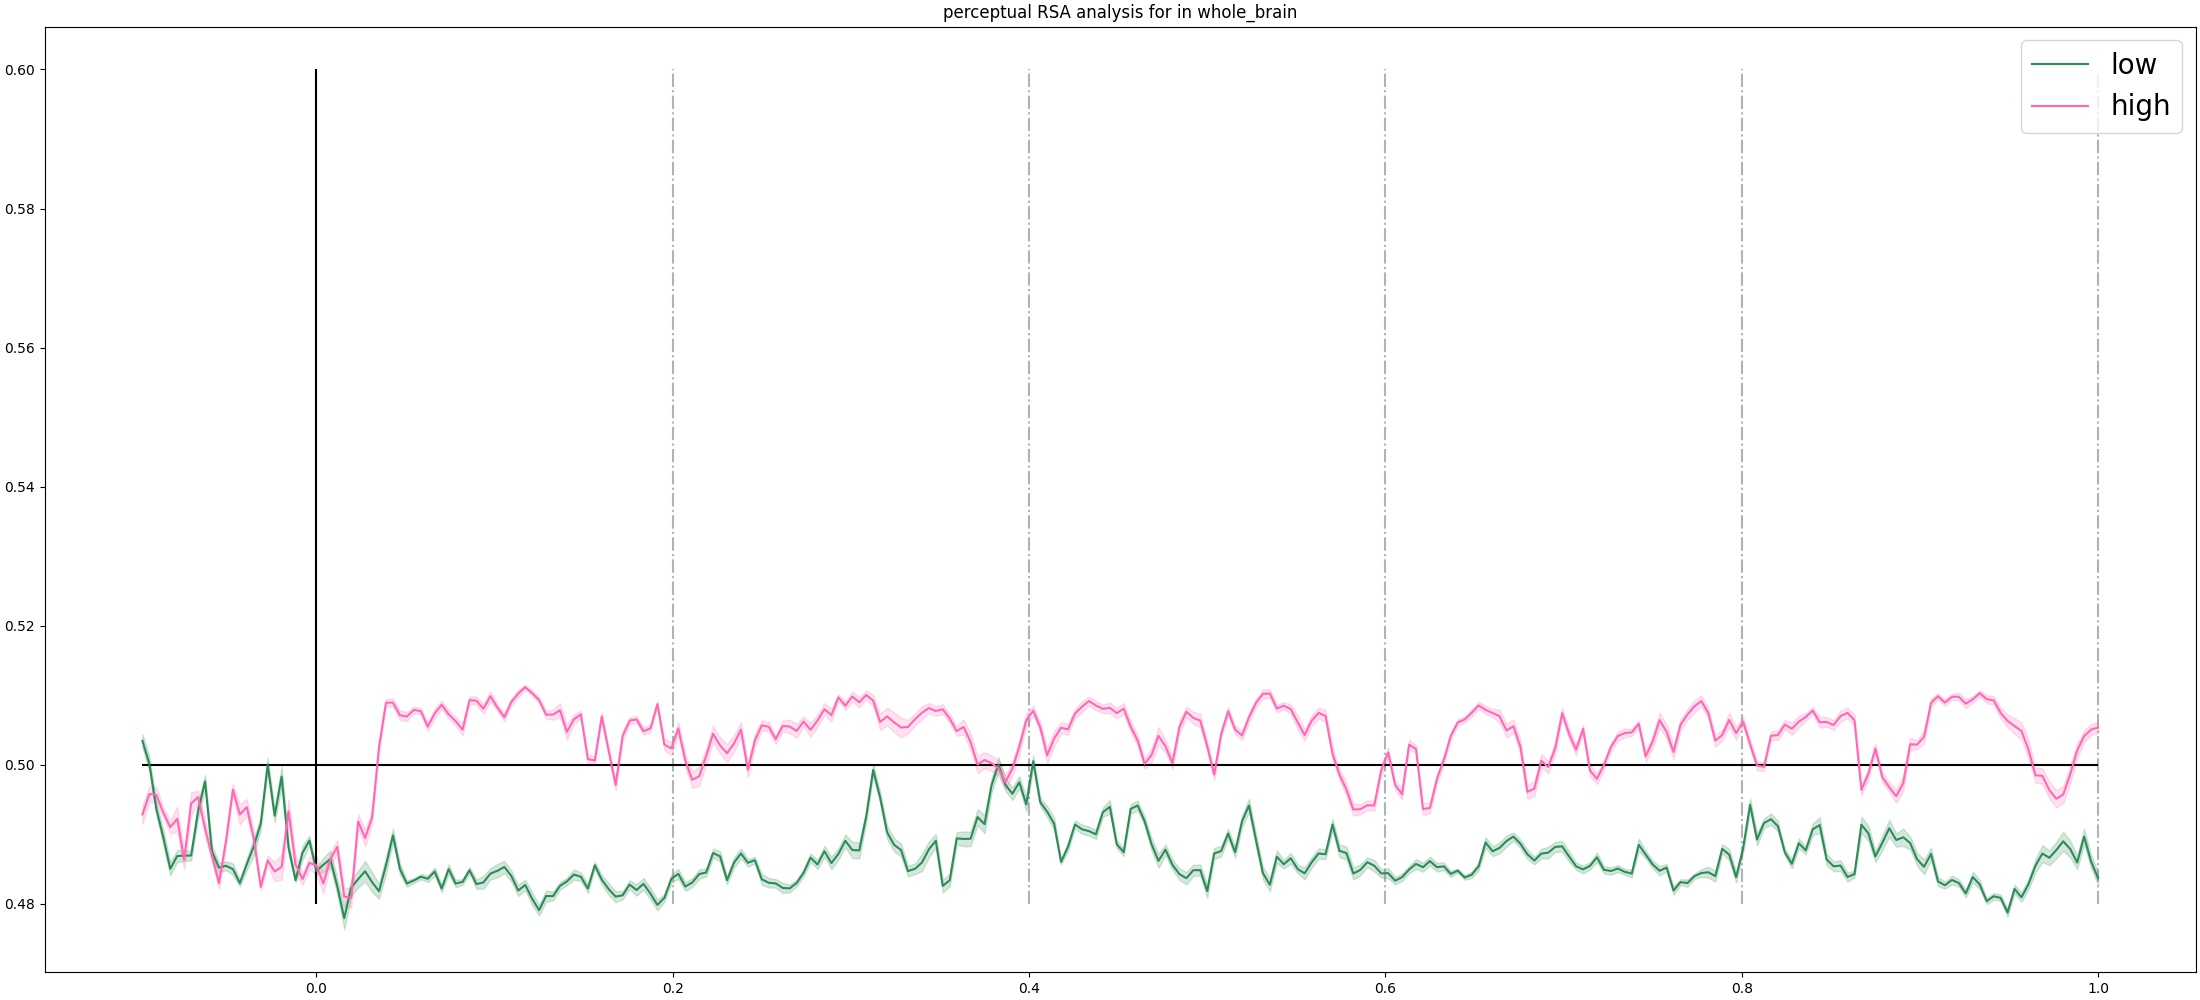
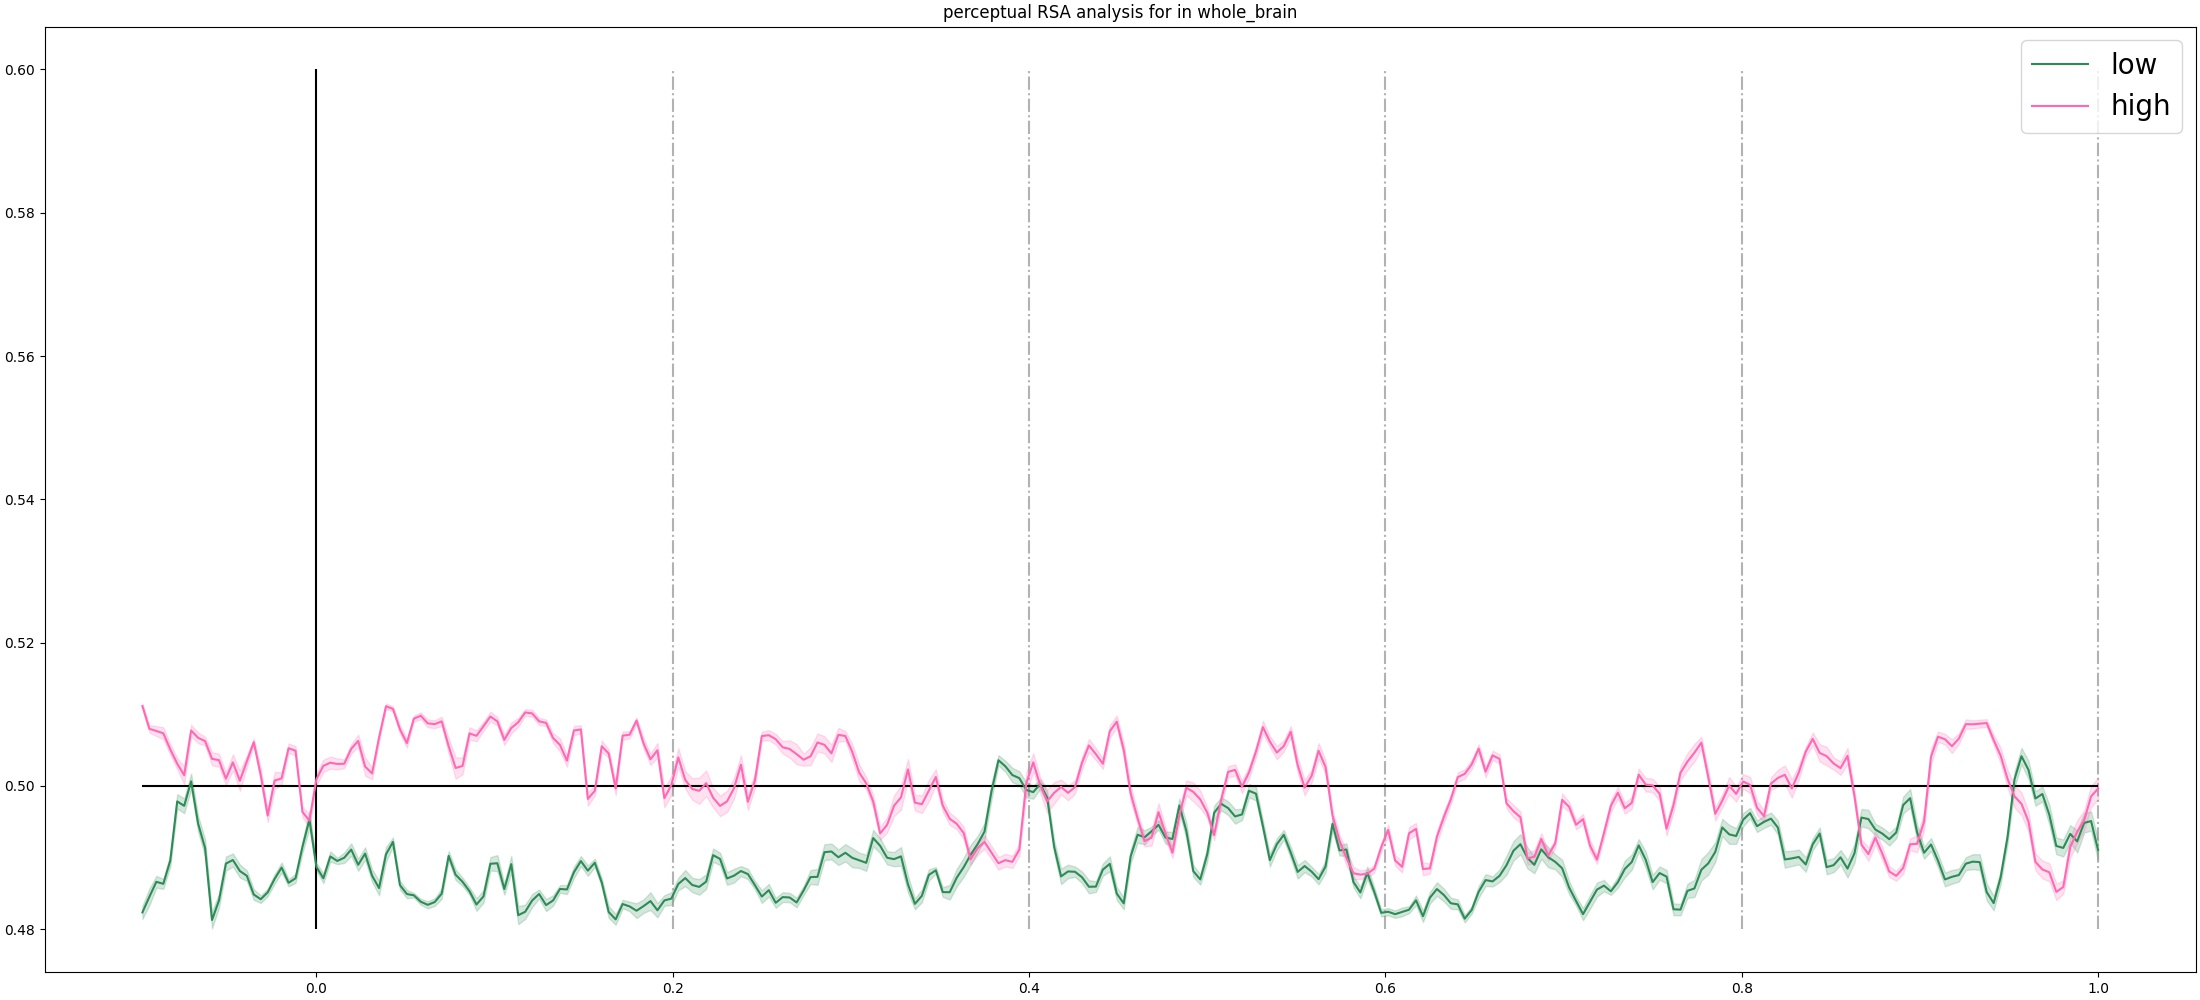
new plots

diff --git a/04_rsa_simple.py b/04_rsa_simple.py
@@ -264,12 +264,12 @@ for model in [
                                     eeg_f,
                                     verbose=False,
                                     preload=True)
-            s_data = raw_f.get_data(picks='eeg')
-            #s_data_unscaled = raw_f.get_data(picks='eeg')
+            #s_data = raw_f.get_data(picks='eeg')
+            s_data_unscaled = raw_f.get_data(picks='eeg')
             ### Scaling 
-            #s_data = mne.decoding.Scaler(raw_f.info, \
-            #            scalings='mean'\
-            #            ).fit_transform(s_data_unscaled)
+            s_data = mne.decoding.Scaler(raw_f.info, \
+                        scalings='mean'\
+                        ).fit_transform(s_data_unscaled)
             xs = raw_f.times
             events = raw_f.events
             ### initializing ERPs
